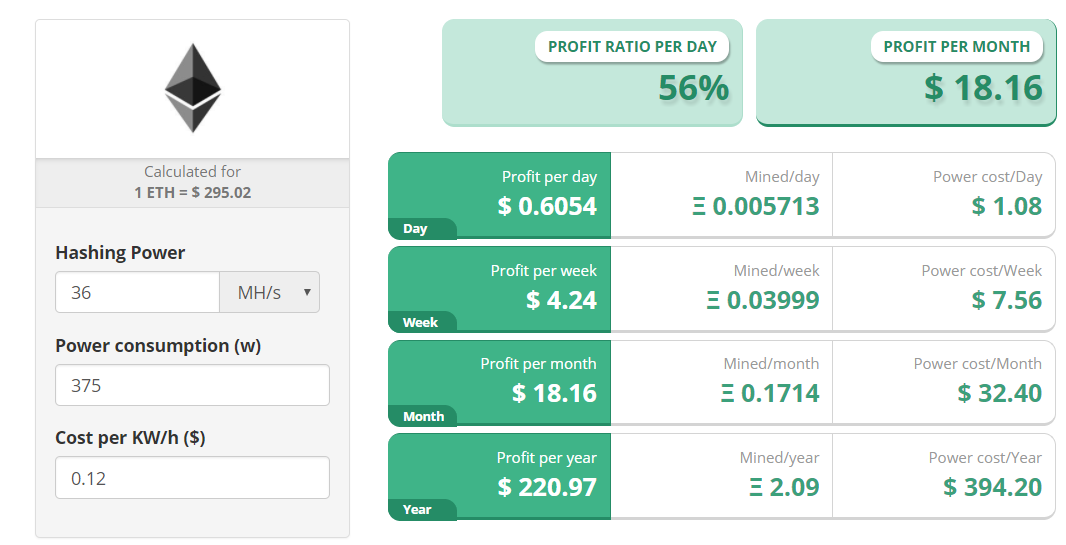
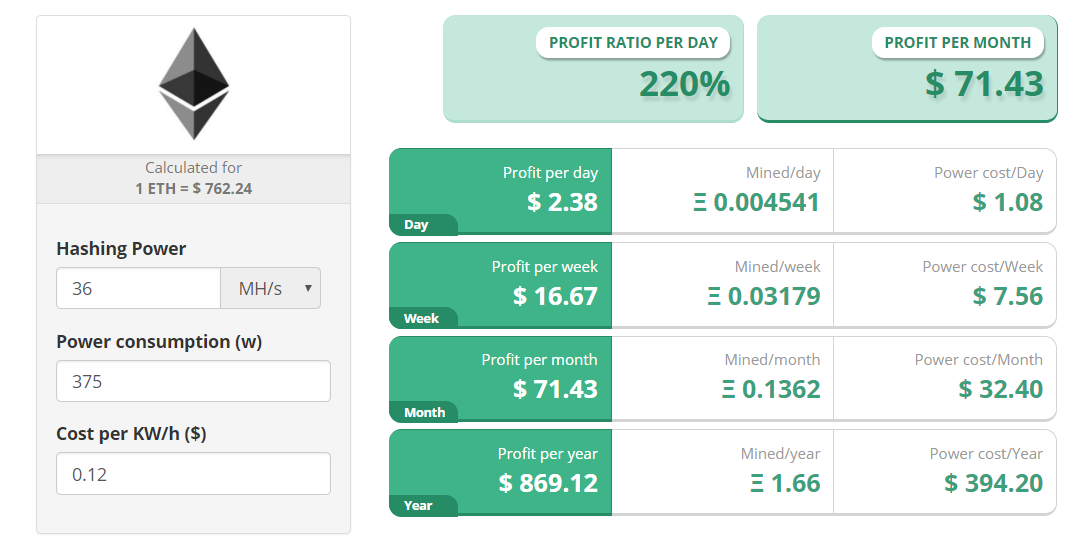
hd 7990

diff --git a/pages/crypto-mining/ethereum-hardware/radeon-hd-7990-review.md b/pages/crypto-mining/ethereum-hardware/radeon-hd-7990-review.md
@@ -10,14 +10,15 @@ seotitle: "Radeon HD 7990 Review: Good Miner for Ethereum and Other Coins?"
 * Hash rate (Second highest among [Ethereum mining GPUs](/crypto-mining/ethereum-hardware/)
 * Power consumption 
 * Price (Budget friendly)
+* ROI (Over $800 annually!)
 
 **Cons**
 
-* ROI
+* None
 
-Our rating: **4/5**
+Our rating: **5/5**
 
-[Buy Radeon HD 7990](http://rover.ebay.com/rover/1/711-53200-19255-0/1?icep_ff3=9&pub=5575177097&toolid=10001&campid=5338114702&customid=&icep_uq=Radeon+HD+7990&icep_sellerId=&icep_ex_kw=&icep_sortBy=12&icep_catId=&icep_minPrice=&icep_maxPrice=&ipn=psmain&icep_vectorid=229466&kwid=902099&mtid=824&kw=lg){: .big-button} 
+[Shop at the Lowest Prices](http://rover.ebay.com/rover/1/711-53200-19255-0/1?icep_ff3=9&pub=5575177097&toolid=10001&campid=5338114702&customid=&icep_uq=Radeon+HD+7990&icep_sellerId=&icep_ex_kw=&icep_sortBy=12&icep_catId=&icep_minPrice=&icep_maxPrice=&ipn=psmain&icep_vectorid=229466&kwid=902099&mtid=824&kw=lg){: .big-button target="_blank"} 
 
 ## Ethereum Mining in 2017 
 ![Radeon HD 7990](/img/cryptocurrency/gpu/hd-7990.png){: .img-right .img-small}
@@ -28,7 +29,7 @@ Why?
 
 It's a profitable currency to mine, especially with the [Radeon R9 295X2](http://rover.ebay.com/rover/1/711-53200-19255-0/1?icep_ff3=9&pub=5575177097&toolid=10001&campid=5338114702&customid=&icep_uq=Radeon+R9+295X2&icep_sellerId=&icep_ex_kw=&icep_sortBy=12&icep_catId=&icep_minPrice=&icep_maxPrice=&ipn=psmain&icep_vectorid=229466&kwid=902099&mtid=824&kw=lg). As we have seen with other popular cryptocurrencies such as [Zcash](/crypto-mining/zcash-hardware/), [Monero](/crypto-mining/monero-hardware/), [Dash](/crypto-mining/dash-hardware/), [Litecoin](/crypto-mining/litecoin-hardware/), and [Bitcoin](/crypto-mining/bitcoin-hardware), mining profitability is always directly related with hash rate and power consumption (see our guide on [Ethereum mining profitability](/crypto-mining/ethereum-mining-profitability/)). 
 
-Today we're taking a look at your projected earnings with the [Radeon HD 7990](http://rover.ebay.com/rover/1/711-53200-19255-0/1?icep_ff3=9&pub=5575177097&toolid=10001&campid=5338114702&customid=&icep_uq=Radeon+HD+7990&icep_sellerId=&icep_ex_kw=&icep_sortBy=12&icep_catId=&icep_minPrice=&icep_maxPrice=&ipn=psmain&icep_vectorid=229466&kwid=902099&mtid=824&kw=lg).
+Today we're taking a look at your projected earnings with the [Radeon HD 7990](http://rover.ebay.com/rover/1/711-53200-19255-0/1?icep_ff3=9&pub=5575177097&toolid=10001&campid=5338114702&customid=&icep_uq=Radeon+HD+7990&icep_sellerId=&icep_ex_kw=&icep_sortBy=12&icep_catId=&icep_minPrice=&icep_maxPrice=&ipn=psmain&icep_vectorid=229466&kwid=902099&mtid=824&kw=lg){:target="_blank"}.
 
 ![Profit](/img/cryptocurrency/hd-7990-review/profit.png)
 
@@ -49,30 +50,24 @@ The Radeon HD 7990 has the second highest [hash rate](https://99bitcoins.com/wha
 		<td><a href="http://rover.ebay.com/rover/1/711-53200-19255-0/1?icep_ff3=9&pub=5575177097&toolid=10001&campid=5338114702&customid=&icep_uq=Radeon+HD+7990&icep_sellerId=&icep_ex_kw=&icep_sortBy=12&icep_catId=&icep_minPrice=&icep_maxPrice=&ipn=psmain&icep_vectorid=229466&kwid=902099&mtid=824&kw=lg"><img class="table-image" src="/img/cryptocurrency/gpu/hd-7990.png" /></a></td>
 		<td>36 MH/s</td>
 		<td>375 W</td>
-		<td>56%</td>
+		<td>220%</td>
 		<td>$350</td>
-		<td><a class="big-button" href="http://rover.ebay.com/rover/1/711-53200-19255-0/1?icep_ff3=9&pub=5575177097&toolid=10001&campid=5338114702&customid=&icep_uq=Radeon+HD+7990&icep_sellerId=&icep_ex_kw=&icep_sortBy=12&icep_catId=&icep_minPrice=&icep_maxPrice=&ipn=psmain&icep_vectorid=229466&kwid=902099&mtid=824&kw=lg">View on eBay</a></td>
+		<td><a target="_blank" class="big-button" href="http://rover.ebay.com/rover/1/711-53200-19255-0/1?icep_ff3=9&pub=5575177097&toolid=10001&campid=5338114702&customid=&icep_uq=Radeon+HD+7990&icep_sellerId=&icep_ex_kw=&icep_sortBy=12&icep_catId=&icep_minPrice=&icep_maxPrice=&ipn=psmain&icep_vectorid=229466&kwid=902099&mtid=824&kw=lg">Compare Lowest Prices</a></td>
 	</tr>
 </table>
 
-This GPU has a hash rate of 36 MH/s, and it draws 375W from the wall. Each GPU will have a return of $220.97 annually. While it's slightly less than the R9 295X2, **the initial investment is much lower.** Evidently, it's a great choice if you're looking to mine Ethereum. 
+This GPU has a hash rate of 36 MH/s, and it draws 375W from the wall. **Each GPU will have a return of over $800 annually**. While it's slightly less than the R9 295X2, **the initial investment is much lower.** Evidently, it's a great choice if you're looking to mine Ethereum. 
 
 **Specifications of the Radeon HD 7990:**
 
 * Hash Rate: 36 MH/s
 * Power Consumption: 375W (at the wall)
-* Profit Ratio per Day: 56%
+* Profit Ratio per Day: 220%
 * Cost: $350
 
-## Radeon HD 7990 Mining Profitability & Payback Period 
+## Radeon HD 7990 Mining Profitability & Payback Period
 
-As stated previously, you'll generate around $220 annually with this GPU. The Radeon HD 7990 has a payback period of just over one year. 
-
-Although the Radeon HD 7990 is a great choice, the [Radeon RX 480](/crypto-mining/ethereum-hardware/radeon-rx-480-review/) **is the best Ethereum miner available right now.** Not only is it the cheapest, it's also the most power efficient. 
-
-While mining Ethereum is profitable, it's still nowhere near the profitability seen with [Dash mining](/crypto-mining/dash-hardware/). 
-
-For example, the [Antminer D3](/crypto-mining/dash-hardware/antminer-d3-review/) generates yearly returns of over $800. It's definitely worth the time to check it out! 
+As stated previously, you'll generate over $800 annually with this GPU. The Radeon HD 7990 has a payback period of far less than a year.
 
 Your mining profitability may vary. You can use this [mining profitability calculator](https://www.cryptocompare.com/mining/calculator/eth?HashingPower=46&HashingUnit=MH%2Fs&PowerConsumption=500&CostPerkWh=0.12) to approximate your earnings! 
 
@@ -84,33 +79,37 @@ Your mining profitability may vary. You can use this [mining profitability calcu
 		<th>GPU</th>
 		<th>Hash Rate</th>
 		<th>Price</th>
+		<th>Yearly Return</th>
 		<th>Buy</th>
 	</tr>
 	<tr>
-		<td><a href="http://rover.ebay.com/rover/1/711-53200-19255-0/1?icep_ff3=9&pub=5575177097&toolid=10001&campid=5338114702&customid=&icep_uq=radeon+r9+295x2&icep_sellerId=&icep_ex_kw=&icep_sortBy=12&icep_catId=&icep_minPrice=&icep_maxPrice=&ipn=psmain&icep_vectorid=229466&kwid=902099&mtid=824&kw=lg"><img class="table-image" src="/img/cryptocurrency/gpu/r9-295-x2.png" /></a></td>
+		<td><a href="/crypto-mining/ethereum-hardware/r9-295-x2-review/"><img class="table-image" src="/img/cryptocurrency/gpu/r9-295-x2.png" /></a></td>
 		<td><a href="/crypto-mining/ethereum-hardware/r9-295-x2-review/">Radeon R9 295 X2</a></td>
 		<td>46 MH/s</td>
 		<td>$600</td>
-		<td><a class="big-button" href="http://rover.ebay.com/rover/1/711-53200-19255-0/1?icep_ff3=9&pub=5575177097&toolid=10001&campid=5338114702&customid=&icep_uq=radeon+r9+295x2&icep_sellerId=&icep_ex_kw=&icep_sortBy=12&icep_catId=&icep_minPrice=&icep_maxPrice=&ipn=psmain&icep_vectorid=229466&kwid=902099&mtid=824&kw=lg">Shop Now</a></td>
+		<td>$1,088.64</td>
+		<td><a target="_blank" class="big-button" href="http://rover.ebay.com/rover/1/711-53200-19255-0/1?icep_ff3=9&pub=5575177097&toolid=10001&campid=5338114702&customid=&icep_uq=radeon+r9+295x2&icep_sellerId=&icep_ex_kw=&icep_sortBy=12&icep_catId=&icep_minPrice=&icep_maxPrice=&ipn=psmain&icep_vectorid=229466&kwid=902099&mtid=824&kw=lg">Compare Lowest Prices</a></td>
 	</tr>
 	<tr>
-		<td><a href="http://rover.ebay.com/rover/1/711-53200-19255-0/1?icep_ff3=9&pub=5575177097&toolid=10001&campid=5338114702&customid=&icep_uq=radeon+rx+480&icep_sellerId=&icep_ex_kw=&icep_sortBy=12&icep_catId=&icep_minPrice=&icep_maxPrice=&ipn=psmain&icep_vectorid=229466&kwid=902099&mtid=824&kw=lg"><img class="table-image" src="/img/cryptocurrency/gpu/rx-480-8gb.png" /></a></td>
+		<td><a target="_blank" href="http://rover.ebay.com/rover/1/711-53200-19255-0/1?icep_ff3=9&pub=5575177097&toolid=10001&campid=5338114702&customid=&icep_uq=radeon+rx+480&icep_sellerId=&icep_ex_kw=&icep_sortBy=12&icep_catId=&icep_minPrice=&icep_maxPrice=&ipn=psmain&icep_vectorid=229466&kwid=902099&mtid=824&kw=lg"><img class="table-image" src="/img/cryptocurrency/gpu/rx-480-8gb.png" /></a></td>
 		<td><a href="/crypto-mining/ethereum-hardware/radeon-rx-480-review/">Radeon RX 480</a></td>
 		<td>25 MH/s</td>
 		<td>$300</td>
-		<td><a class="big-button" href="http://rover.ebay.com/rover/1/711-53200-19255-0/1?icep_ff3=9&pub=5575177097&toolid=10001&campid=5338114702&customid=&icep_uq=radeon+rx+480&icep_sellerId=&icep_ex_kw=&icep_sortBy=12&icep_catId=&icep_minPrice=&icep_maxPrice=&ipn=psmain&icep_vectorid=229466&kwid=902099&mtid=824&kw=lg">Shop Now</a></td>
+		<td>$719.62</td>
+		<td><a target="_blank" class="big-button" href="http://rover.ebay.com/rover/1/711-53200-19255-0/1?icep_ff3=9&pub=5575177097&toolid=10001&campid=5338114702&customid=&icep_uq=radeon+rx+480&icep_sellerId=&icep_ex_kw=&icep_sortBy=12&icep_catId=&icep_minPrice=&icep_maxPrice=&ipn=psmain&icep_vectorid=229466&kwid=902099&mtid=824&kw=lg">Compare Lowest Prices</a></td>
 		
 	</tr>
 	<tr>
-		<td><a href="http://rover.ebay.com/rover/1/711-53200-19255-0/1?icep_ff3=9&pub=5575177097&toolid=10001&campid=5338114702&customid=&icep_uq=radeon+hd+7990&icep_sellerId=&icep_ex_kw=&icep_sortBy=12&icep_catId=&icep_minPrice=&icep_maxPrice=&ipn=psmain&icep_vectorid=229466&kwid=902099&mtid=824&kw=lg"><img class="table-image" src="/img/cryptocurrency/gpu/hd-7990.png" /></a></td>
-		<td><a href="/crypto-mining/ethereum-hardware/radeon-hd-7990-review">Radeon HD 7990</a></td>
+		<td><a target="_blank" href="http://rover.ebay.com/rover/1/711-53200-19255-0/1?icep_ff3=9&pub=5575177097&toolid=10001&campid=5338114702&customid=&icep_uq=radeon+hd+7990&icep_sellerId=&icep_ex_kw=&icep_sortBy=12&icep_catId=&icep_minPrice=&icep_maxPrice=&ipn=psmain&icep_vectorid=229466&kwid=902099&mtid=824&kw=lg"><img class="table-image" src="/img/cryptocurrency/gpu/hd-7990.png" /></a></td>
+		<td><a href="/crypto-mining/ethereum-hardware/radeon-hd-7990-review/">Radeon HD 7990</a></td>
 		<td>36 MH/s</td>
 		<td>$350</td>
-		<td><a class="big-button" href="http://rover.ebay.com/rover/1/711-53200-19255-0/1?icep_ff3=9&pub=5575177097&toolid=10001&campid=5338114702&customid=&icep_uq=radeon+hd+7990&icep_sellerId=&icep_ex_kw=&icep_sortBy=12&icep_catId=&icep_minPrice=&icep_maxPrice=&ipn=psmain&icep_vectorid=229466&kwid=902099&mtid=824&kw=lg">Shop Now</a></td>
+		<td>$869.12</td>
+		<td><a target="_blank" class="big-button" href="http://rover.ebay.com/rover/1/711-53200-19255-0/1?icep_ff3=9&pub=5575177097&toolid=10001&campid=5338114702&customid=&icep_uq=radeon+hd+7990&icep_sellerId=&icep_ex_kw=&icep_sortBy=12&icep_catId=&icep_minPrice=&icep_maxPrice=&ipn=psmain&icep_vectorid=229466&kwid=902099&mtid=824&kw=lg">Compare Lowest Prices</a></td>
 		
 	</tr>
 	
-</table> 
+</table>
 
 
 * TOC

diff --git a/pages/crypto-mining/ethereum-hardware/r9-295-x2-review.md b/pages/crypto-mining/ethereum-hardware/r9-295-x2-review.md
@@ -9,7 +9,7 @@ seotitle: "R9 295X2 Review: Good Miner for Ethereum and Other Coins?"
 
 * Hash rate (Highest among Ethereum mining GPUs)
 * Power consumption 
-* ROI (**Over $1,000 a year per card!)
+* ROI (**Over $1,000 a year per card!**)
 
 **Cons**
 
@@ -17,7 +17,7 @@ seotitle: "R9 295X2 Review: Good Miner for Ethereum and Other Coins?"
 
 Our rating: **4.5/5**
 
-[Buy Radeon R9 295X2](http://rover.ebay.com/rover/1/711-53200-19255-0/1?icep_ff3=9&pub=5575177097&toolid=10001&campid=5338114702&customid=&icep_uq=Radeon+R9+295X2&icep_sellerId=&icep_ex_kw=&icep_sortBy=12&icep_catId=&icep_minPrice=&icep_maxPrice=&ipn=psmain&icep_vectorid=229466&kwid=902099&mtid=824&kw=lg){: .big-button target="_blank"} 
+[Shop at the Lowest Prices](http://rover.ebay.com/rover/1/711-53200-19255-0/1?icep_ff3=9&pub=5575177097&toolid=10001&campid=5338114702&customid=&icep_uq=Radeon+R9+295X2&icep_sellerId=&icep_ex_kw=&icep_sortBy=12&icep_catId=&icep_minPrice=&icep_maxPrice=&ipn=psmain&icep_vectorid=229466&kwid=902099&mtid=824&kw=lg){: .big-button target="_blank"} 
 
 ## Ethereum Mining in 2017 
 ![Radeon R9 295X2](/img/cryptocurrency/gpu/r9-295-x2.png){: .img-right .img-small}
